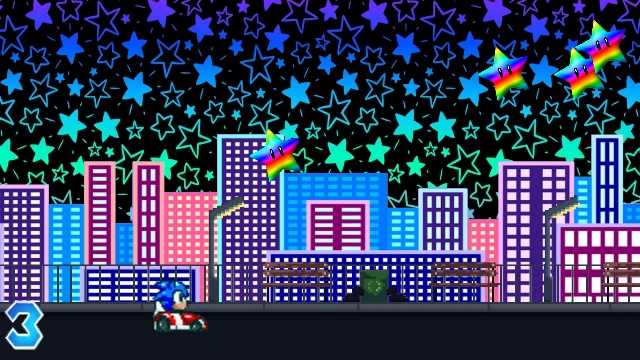
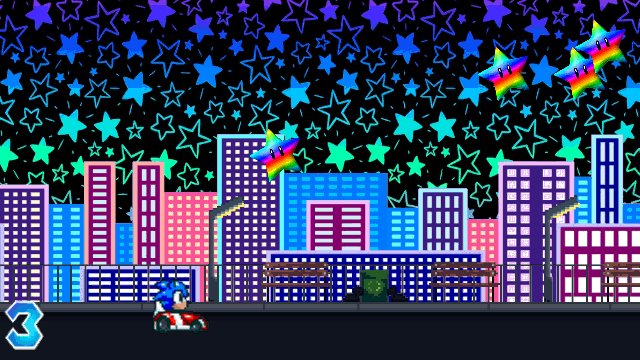
Preserve native city demo colors in GIF encoding

Changed region(s): [[0.0, 0.0, 1.0, 0.9778], [0.6875, 0.3056, 0.7188, 0.3361]]

diff --git a/scripts/generate_animations.py b/scripts/generate_animations.py
@@ -8,6 +8,7 @@ import random
 import subprocess
 
 from PIL import Image, ImageStat
+from animation_encoding import encode_animation
 
 ROOT = Path(__file__).resolve().parents[1]
 FRAMES = 300  # Five seconds of the engine's fixed 60 Hz simulation.
@@ -77,37 +78,17 @@ def capture(binary, level, name, seed):
     assert any(.04 < dx < .2 for dx in deltas), "Real player must move right"
     assert any(-.2 < dx < -.04 for dx in deltas), "Real player must move left"
     assert any(abs(dx) < .001 for dx in deltas), "Released input must stop the player"
-    # One shared palette limits flicker and keeps the committed GIFs compact.
-    sheet = Image.new("RGB", (160 * 10, 90))
-    for i, image in enumerate(images[::5]):
-        sheet.paste(image.resize((160, 90)), (i * 160, 0))
-    palette = sheet.quantize(colors=64)
-    frames = [image.quantize(palette=palette, dither=Image.Dither.NONE) for image in images]
     output = ROOT / "docs/images" / f"{name}.gif"
-    frames[0].save(output, save_all=True, append_images=frames[1:],
-                   duration=100, loop=0, optimize=True, disposal=1)
-    with Image.open(output) as gif:
-        # The encoder may coalesce identical frames while preserving their delay.
-        assert gif.size == SIZE and 25 <= gif.n_frames <= FRAMES // STRIDE
-        encoded_frames = gif.n_frames
-        duration = 0
-        for i in range(gif.n_frames):
-            gif.seek(i)
-            duration += gif.info["duration"]
-        assert duration == 5000
-        assert gif.info["loop"] == 0
-    # The city poster is frame zero of the hover preview, avoiding a visual jump.
     poster = ROOT / "docs/images/city-poster.webp" if name == "city" else None
-    if poster:
-        images[0].save(poster, quality=90)
+    encoding = encode_animation(images, output, poster)
     final = json.loads((directory / "final.json").read_text())
     assert final["level"] == level and final["frames"] == WARMUP + FRAMES
-    print(f"{name}: {output.stat().st_size:,} bytes, {encoded_frames} GIF frames, 5,000 ms; left/right/idle verified", flush=True)
+    print(f"{name}: {output.stat().st_size:,} bytes, {encoding['gif_frames']} GIF frames, 5,000 ms; left/right/idle verified", flush=True)
     return {"image": f"docs/images/{name}.gif", "seed": seed,
             "command": command, "stdout": result.stdout,
             "warmup_frames": WARMUP, "warmup_input": "hold right",
             "simulation_frames": WARMUP + FRAMES, "recorded_frames": FRAMES,
-            "sampled_frames": FRAMES // STRIDE, "gif_frames": encoded_frames, "duration_ms": duration,
+            "sampled_frames": FRAMES // STRIDE, **encoding,
             "input_segments": segments, "final_state": final,
             "sha256": hashlib.sha256(output.read_bytes()).hexdigest()}
 
@@ -123,7 +104,7 @@ def main():
         "source": "Actual framebuffer output from the shared native C++/OpenGL engine and demo",
         "capture": "180 fixed 60 Hz warmup frames, then 300 recorded simulation frames; every sixth framebuffer encoded at 10 fps, 640x360",
         "inputs": "Seeded randomized held keys, short left/right presses, releases, and idle periods",
-        "conversion": "Shared-palette GIF encoding only; no drawn or generated gameplay",
+        "conversion": "Full 256-color per-frame GIF palettes; no color grading, drawn, or generated gameplay",
         "runs": runs,
     }, indent=2) + "\n")
 

diff --git a/scripts/animation_encoding.py b/scripts/animation_encoding.py
@@ -1,0 +1,46 @@
+"""Encode native frames without a small shared palette that can discard hues."""
+from PIL import Image
+
+
+def encode_animation(images, output, poster=None):
+    # Keep common flat colors exact, then cover the remaining color range.
+    # This preserves dark backgrounds as well as less common neon greens.
+    frames = []
+    for image in images:
+        dominant = sorted(image.getcolors(maxcolors=image.width * image.height),
+                          reverse=True)[:64]
+        diverse = image.quantize(colors=192, method=Image.Quantize.MAXCOVERAGE)
+        colors = diverse.getpalette()[:192 * 3]
+        colors += [channel for count, color in dominant for channel in color]
+        colors += [0] * (768 - len(colors))
+        palette = Image.new("P", (1, 1))
+        palette.putpalette(colors)
+        quantized = image.quantize(palette=palette, dither=Image.Dither.NONE)
+        # Pillow's approximate palette lookup can alter even exact matches.
+        # Restore the dominant source colors directly, without recoloring them.
+        exact_indices = {color: 192 + i for i, (count, color) in enumerate(dominant)}
+        indices = bytes(exact_indices.get(color, index) for color, index in
+                        zip(image.getdata(), quantized.getdata()))
+        frame = Image.frombytes("P", image.size, indices)
+        frame.putpalette(colors)
+        frames.append(frame)
+    frames[0].save(output, save_all=True, append_images=frames[1:],
+                   duration=100, loop=0, optimize=True, disposal=1)
+    with Image.open(output) as gif:
+        assert gif.size == images[0].size
+        assert 25 <= gif.n_frames <= len(images)
+        encoded_frames = gif.n_frames
+        duration = 0
+        for i in range(gif.n_frames):
+            gif.seek(i)
+            duration += gif.info["duration"]
+        assert duration == 5000 and gif.info["loop"] == 0
+        if poster:
+            # An exact copy of the first decoded GIF frame avoids a color jump
+            # when the home card switches from its poster to the animation.
+            gif.seek(0)
+            gif.convert("RGB").save(poster, lossless=True)
+    return {"gif_frames": encoded_frames, "duration_ms": duration,
+            "encoding": {"palette": "per-frame", "colors": 256,
+                         "method": "exact dominant colors and maximum color coverage",
+                         "color_adjustments": False}}

diff --git a/README.md b/README.md
@@ -92,7 +92,7 @@ sudo apt install python3-pil
 python3 scripts/generate_animations.py
 ```
 
-The animation script first holds Right for 180 fixed 60 Hz warmup frames to bring the kart into view, then records 300 simulation frames per scene. It exports every sixth framebuffer at 640×360 and encodes 50 samples at 10 fps into a five-second looping GIF, using a shared palette to limit flicker and file size. Seeds make the varied inputs reproducible. It verifies left movement, right movement, idle periods, scene selection, life bounds, and the encoded duration before saving the gallery.
+The animation script first holds Right for 180 fixed 60 Hz warmup frames to bring the kart into view, then records 300 simulation frames per scene. It exports every sixth framebuffer at 640×360 and encodes 50 samples at 10 fps into a five-second looping GIF. Full 256-color palettes per frame retain saturated colors without color grading. The city poster is a lossless copy of the GIF's first decoded frame, so starting the hover preview does not change its colors. Seeds make the varied inputs reproducible. The script verifies left movement, right movement, idle periods, scene selection, life bounds, and encoded duration before saving the gallery.
 
 The original full-size stills remain available for static previews. To regenerate them:
 
